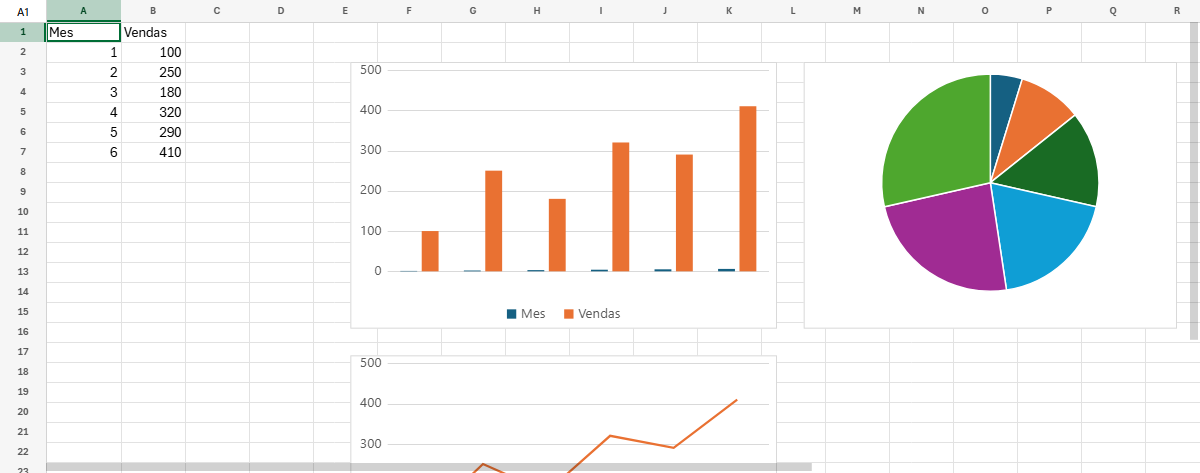
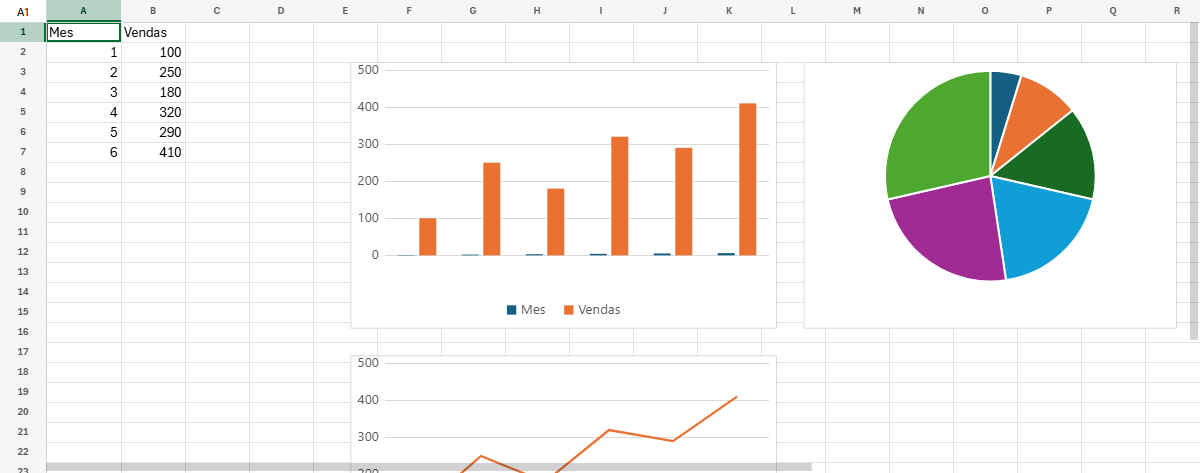
chore(sheet): rebuild demo com chart-engine sincronizada (rodada 2)

diff --git a/sheet/packages/sheet/demo/bundle.js b/sheet/packages/sheet/demo/bundle.js
@@ -33183,12 +33183,12 @@ function paintChart(ctx, chart, x4, y3, w2, h3, pxPerPt, frameBorder) {
     ctx.font = `${titlePx}px Aptos, 'Segoe UI', Calibri, Arial, sans-serif`;
     ctx.textAlign = "center";
     ctx.textBaseline = "top";
-    ctx.fillText(chart.title, x4 + w2 / 2, y3 + 8 * u3);
-    plotY = y3 + titlePx + 16 * u3;
-    plotH = h3 - (titlePx + 24 * u3);
+    ctx.fillText(chart.title, x4 + w2 / 2, y3 + 16 * u3);
+    plotY = y3 + titlePx + 36 * u3;
+    plotH = h3 - (titlePx + 44 * u3);
   }
   const showLegend = chart.legendPos !== void 0;
-  const legendH = showLegend ? labelPx + 12 * u3 : 0;
+  const legendH = showLegend ? labelPx + 20 * u3 : 0;
   const legendTop = chart.legendPos === "t";
   const px = x4 + 8 * u3;
   const py = plotY + (legendTop ? legendH : 0);
@@ -33260,7 +33260,7 @@ function paintBars(ctx, chart, x4, y3, w2, h3, dir, labelPx) {
   if (!cats || chart.series.length === 0) return;
   const { min, max: max3 } = valueRange(chart);
   const t5 = niceTicks(min, max3);
-  const axW = labelPx * 2.2, axH = labelPx * 1.8;
+  const axW = labelPx * 2, axH = labelPx * 2.4;
   const plotL = x4 + axW, plotT = y3, plotR = x4 + w2, plotB = y3 + h3 - axH;
   paintGrid(ctx, plotL, plotT, plotR, plotB, t5);
   const gap = (chart.gapWidth ?? 219) / 100;
@@ -33290,7 +33290,7 @@ function paintLines(ctx, chart, x4, y3, w2, h3, labelPx, area) {
   if (!cats) return;
   const { min, max: max3 } = valueRange(chart);
   const t5 = niceTicks(min, max3);
-  const axW = labelPx * 2.2, axH = labelPx * 1.8;
+  const axW = labelPx * 2, axH = labelPx * 2.4;
   const plotL = x4 + axW, plotT = y3, plotR = x4 + w2, plotB = y3 + h3 - axH;
   paintGrid(ctx, plotL, plotT, plotR, plotB, t5);
   const stepX = (plotR - plotL) / cats;
@@ -33338,8 +33338,8 @@ function paintPieOrDoughnut(ctx, chart, x4, y3, w2, h3, holeFrac) {
   const total = s0.values.reduce((a3, b5) => a3 + Math.max(0, b5), 0);
   if (total <= 0) return;
   const pal = paletteOf(chart);
-  const cx = x4 + w2 / 2, cy = y3 + h3 / 2;
-  const radius = Math.min(w2, h3) / 2 - 4;
+  const cx = x4 + w2 / 2, cy = y3 + h3 / 2 - h3 * 0.012;
+  const radius = Math.min(w2, h3) / 2 * 0.97;
   let a0 = -Math.PI / 2;
   for (let i8 = 0; i8 < s0.values.length; i8++) {
     const v2 = Math.max(0, s0.values[i8] ?? 0);
@@ -33358,7 +33358,7 @@ function paintPieOrDoughnut(ctx, chart, x4, y3, w2, h3, holeFrac) {
     }
     ctx.fill();
     ctx.strokeStyle = "#ffffff";
-    ctx.lineWidth = Math.max(1.5, radius / 120);
+    ctx.lineWidth = Math.max(2, radius / 90);
     ctx.stroke();
     a0 = a1;
   }
@@ -33376,7 +33376,7 @@ function paintScatter(ctx, chart, x4, y3, w2, h3, labelPx) {
   const { min, max: max3 } = valueRange(chart);
   const tx = niceTicks(xMin, xMax);
   const ty = niceTicks(min, max3);
-  const axW = labelPx * 2.2, axH = labelPx * 1.8;
+  const axW = labelPx * 2, axH = labelPx * 2.4;
   const plotL = x4 + axW, plotT = y3, plotR = x4 + w2, plotB = y3 + h3 - axH;
   paintGrid(ctx, plotL, plotT, plotR, plotB, ty);
   ctx.strokeStyle = "#D9D9D9";
